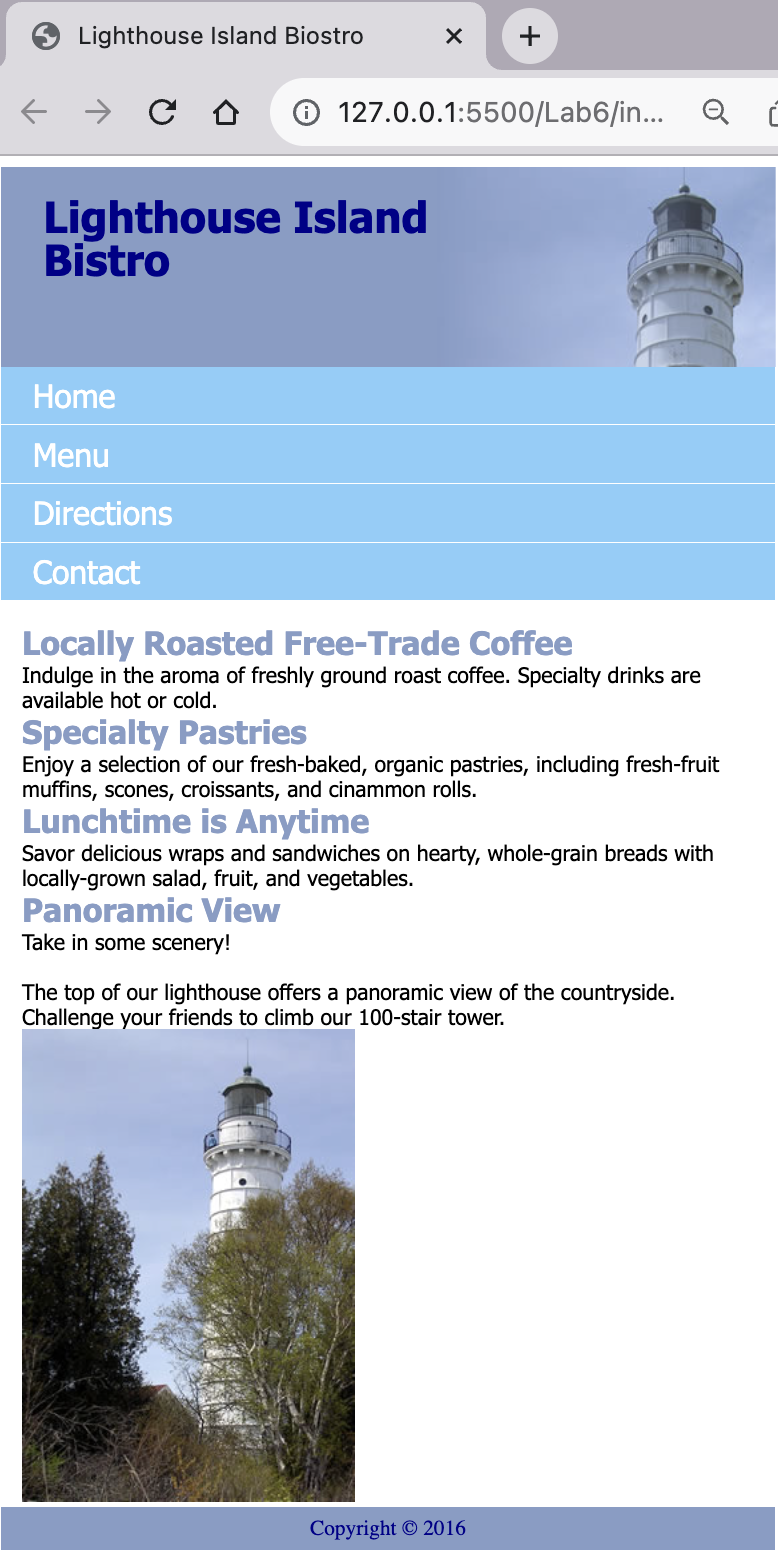
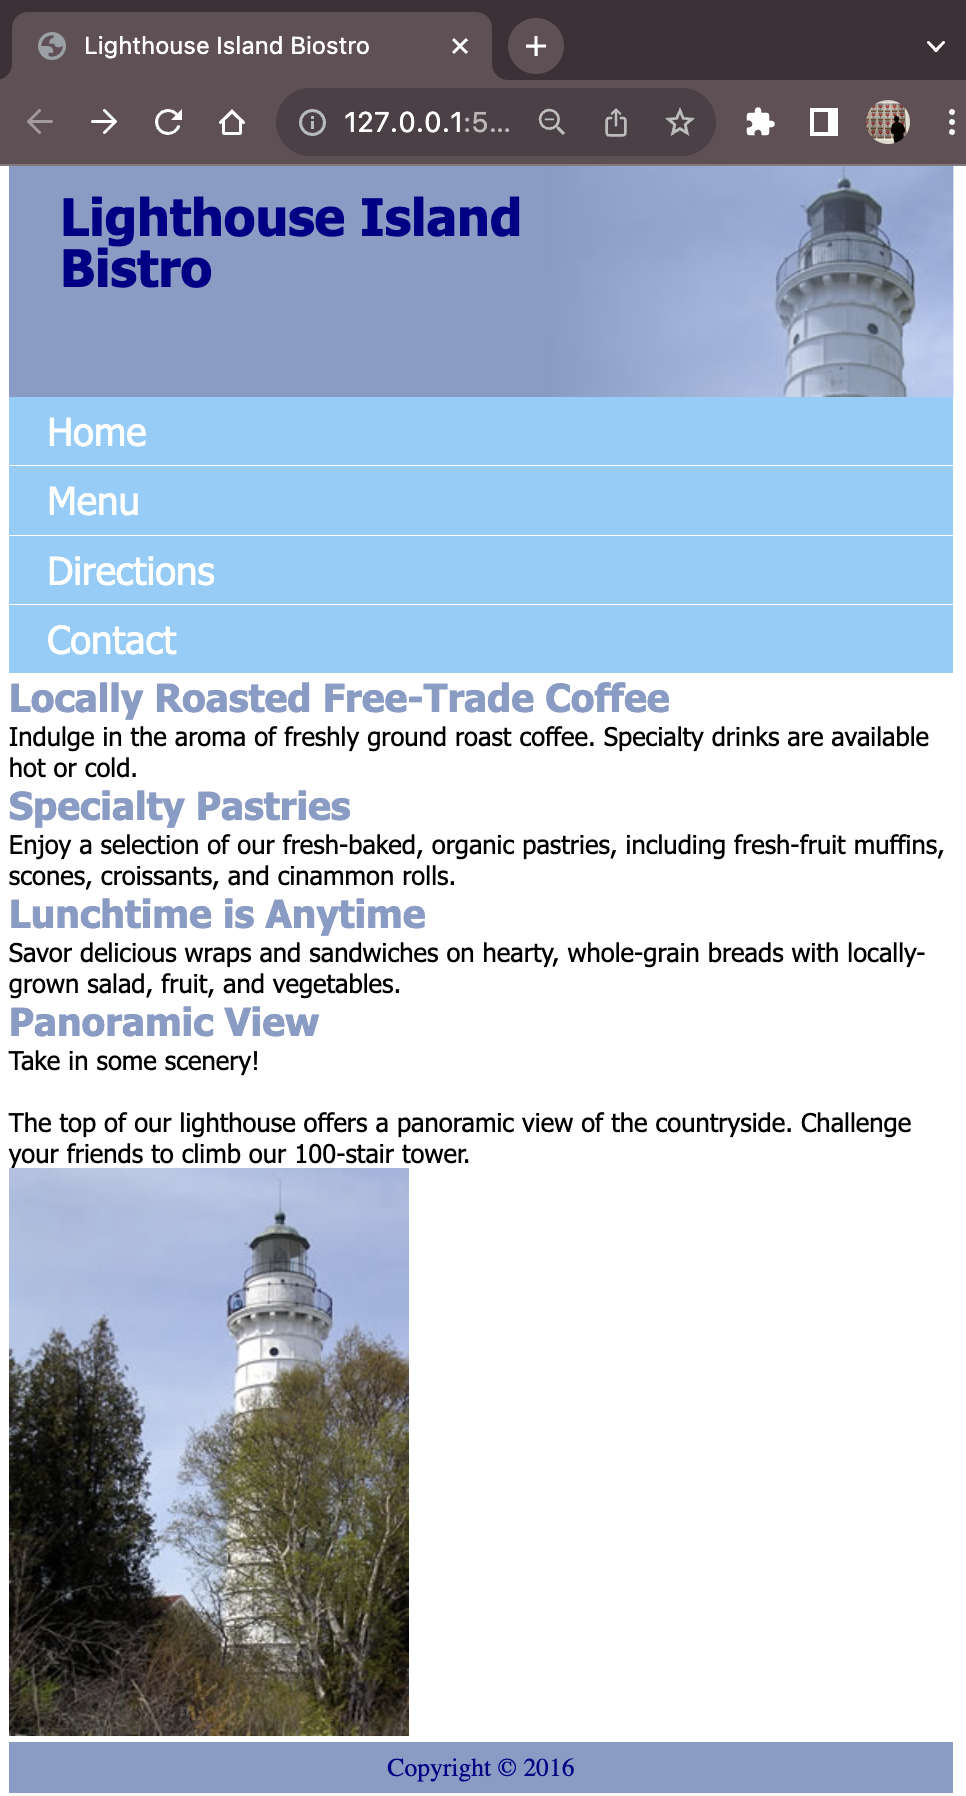
Updated

diff --git a/index.html b/index.html
@@ -13,14 +13,13 @@
         <img src="images/lighthouselogo.jpg" alt="lighthouselogo">
         <h1>Lighthouse Island Bistro</h1>
     </header>
-    <div class="desktopflex">
-    <nav>
-        <a href="index.html">Home</a>
-        <a href="webpages/menu.html">Menu</a>
-        <a href="webpages/directions.html">Directions</a>
-        <a href="webpages/contact.html">Contact</a>
-    </nav>
-        <div class="tabletflex">
+    <div class="gridcontainer">
+        <nav>
+            <a href="index.html">Home</a>
+            <a href="webpages/menu.html">Menu</a>
+            <a href="webpages/directions.html">Directions</a>
+            <a href="webpages/contact.html">Contact</a>
+        </nav>
         <main> 
             <h2>Locally Roasted Free-Trade Coffee</h2>
             <p>Indulge in the aroma of freshly ground roast coffee. Specialty drinks are available hot or cold.</p>
@@ -36,7 +35,6 @@
         <aside>
             <img src="images/lighthouseisland.jpg" alt="lighthouseisland">
         </aside>
-        </div>
     </div>
     <footer>
         Copyright &copy; 2016

diff --git a/css/desktop.css b/css/desktop.css
@@ -1,30 +1,22 @@
 header{
     background-color: #869dc7;
-    display: flex;
-    flex-direction: row;
+    display: grid;
+    grid-template-columns: auto auto;
 }
 h1{
     line-height: 200%;
     font-family: fantasy, 'Franklin Gothic Medium', 'Arial Narrow';
     font-size: 45px;
 }
-.desktopflex{
-    display: flex;
-    background-color:lightskyblue;
-    width:fit-content;
+.gridcontainer{
+    display:grid; 
+    grid-template-columns: 150px auto auto;
 }
-.tabletflex{
-    display: flex;
-}
-main{
-    background-color:white;
-}
-aside{
-    background-color: white;
-    padding: 20px;
-}
+/* header,footer{
+    grid-column: 1/3
+} */
 nav{
-    width: 150px;
+    background-color: lightskyblue;
 }
 nav a{
     text-decoration: none;
@@ -44,6 +36,9 @@ h2{
 }
 p{
     font-family:'Segoe UI', Tahoma, Geneva, Verdana, sans-serif;
+}
+aside{
+    padding: 20px;
 }
 footer{
     line-height: 200%;

diff --git a/css/tablet.css b/css/tablet.css
@@ -1,25 +1,29 @@
 header{
     background-color: #869dc7;
-    display: flex;
-    flex-direction: row;
+    display: grid;
+    grid-template-columns: auto auto;
 }
 h1{
     line-height: 200%;
     font-family: fantasy, 'Franklin Gothic Medium', 'Arial Narrow';
     font-size: 45px;
 }
-.tabletflex{
-    display: flex;
-    margin: 20px;
+.gridcontainer{
+    display:grid; 
+    grid-template-columns: auto auto;
+    grid-template-areas: 
+        "nav nav"
+        "main aside";
 }
 main{
-    background-color:white;
+    grid-area: main;
 }
 aside{
-    background-color: white;
+    grid-area: aside;
     padding: 20px;
 }
 nav{
+    grid-area: nav;
     background-color: lightskyblue;
     text-align: center;
     padding: 10px;

diff --git a/css/mobile.css b/css/mobile.css
@@ -1,12 +1,16 @@
 header{
     background-color: #869dc7;
-    display: flex;
-    flex-direction: row-reverse;
+    display: grid;
+    grid-template-columns: auto auto;
+    grid-template-areas: 
+        "h1 image";
 }
 header img{
+    grid-area: image;
     transform: scaleX(-1);
 }
 h1{
+    grid-area: h1;
     line-height: 100%;
     padding-left: 1em;
     color: darkblue;
@@ -21,10 +25,6 @@ nav a{
     font-size: x-large;
     color: white;
     border-bottom: 1px solid white;
-}
-.tabletflex{
-    margin-top: 1em;
-    padding: 0 1em;
 }
 h2{
     color: #869dc7;
